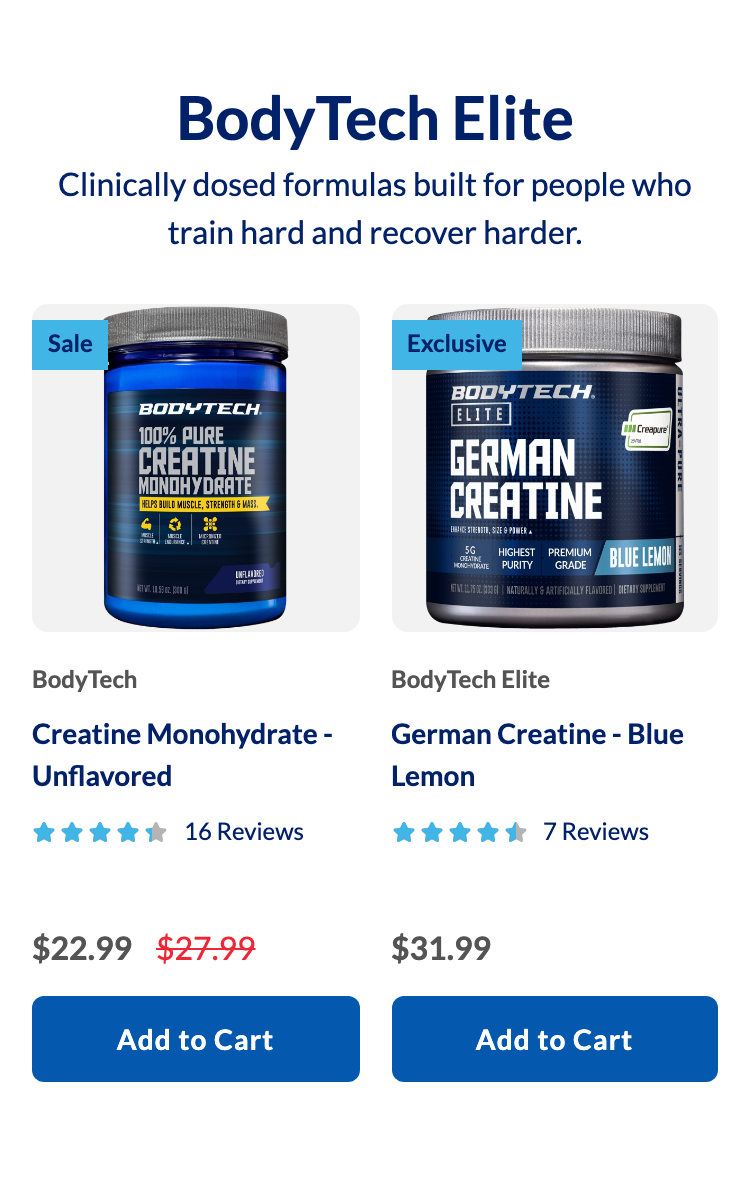
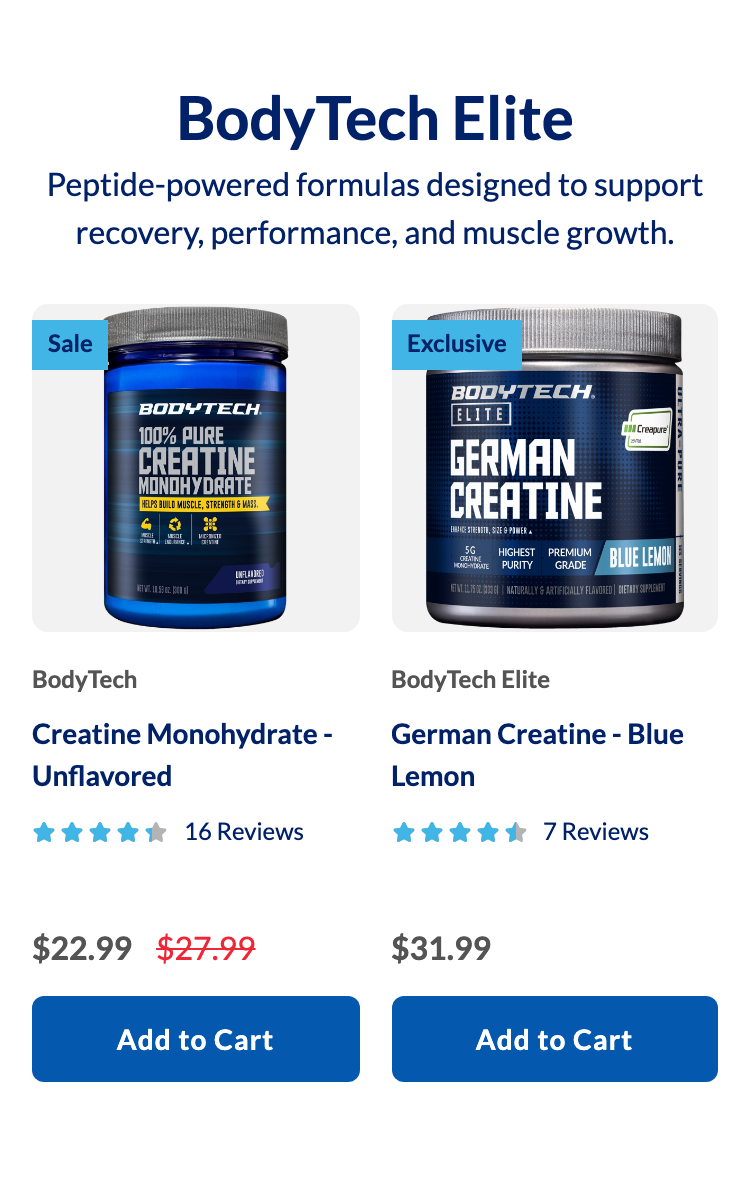
screenshots 2026-08-14T15:29:53.489Z

Changed region(s): [[0.0613, 0.1248, 0.92, 0.2184]]

diff --git a/product-carousel/index.html b/product-carousel/index.html
@@ -216,7 +216,7 @@ pre { background: var(--surface); border: 1px solid var(--rule); border-radius: 
   &quot;headingLevel&quot;: &quot;h2&quot;,
   &quot;headingSize&quot;: &quot;48px / 30px&quot;,
   &quot;headingFont&quot;: &quot;Lato&quot;,
-  &quot;body&quot;: &quot;Clinically dosed formulas built for people who train hard and recover harder.&quot;,
+  &quot;body&quot;: &quot;Peptide-powered formulas designed to support recovery, performance, and muscle growth.&quot;,
   &quot;skus&quot;: [
     &quot;VS-0397&quot;,
     &quot;VS-8532&quot;,
